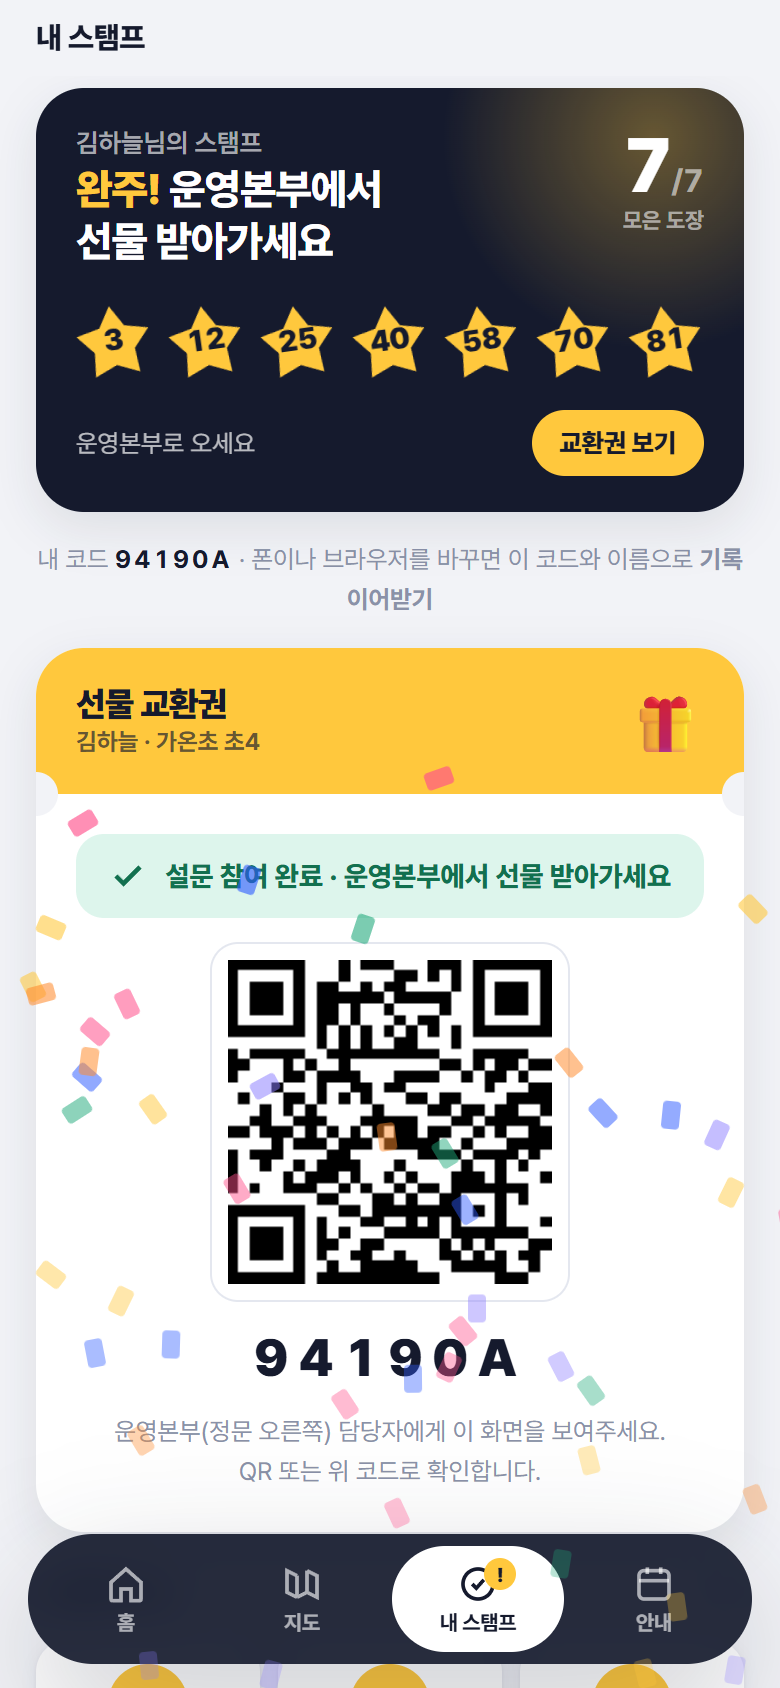
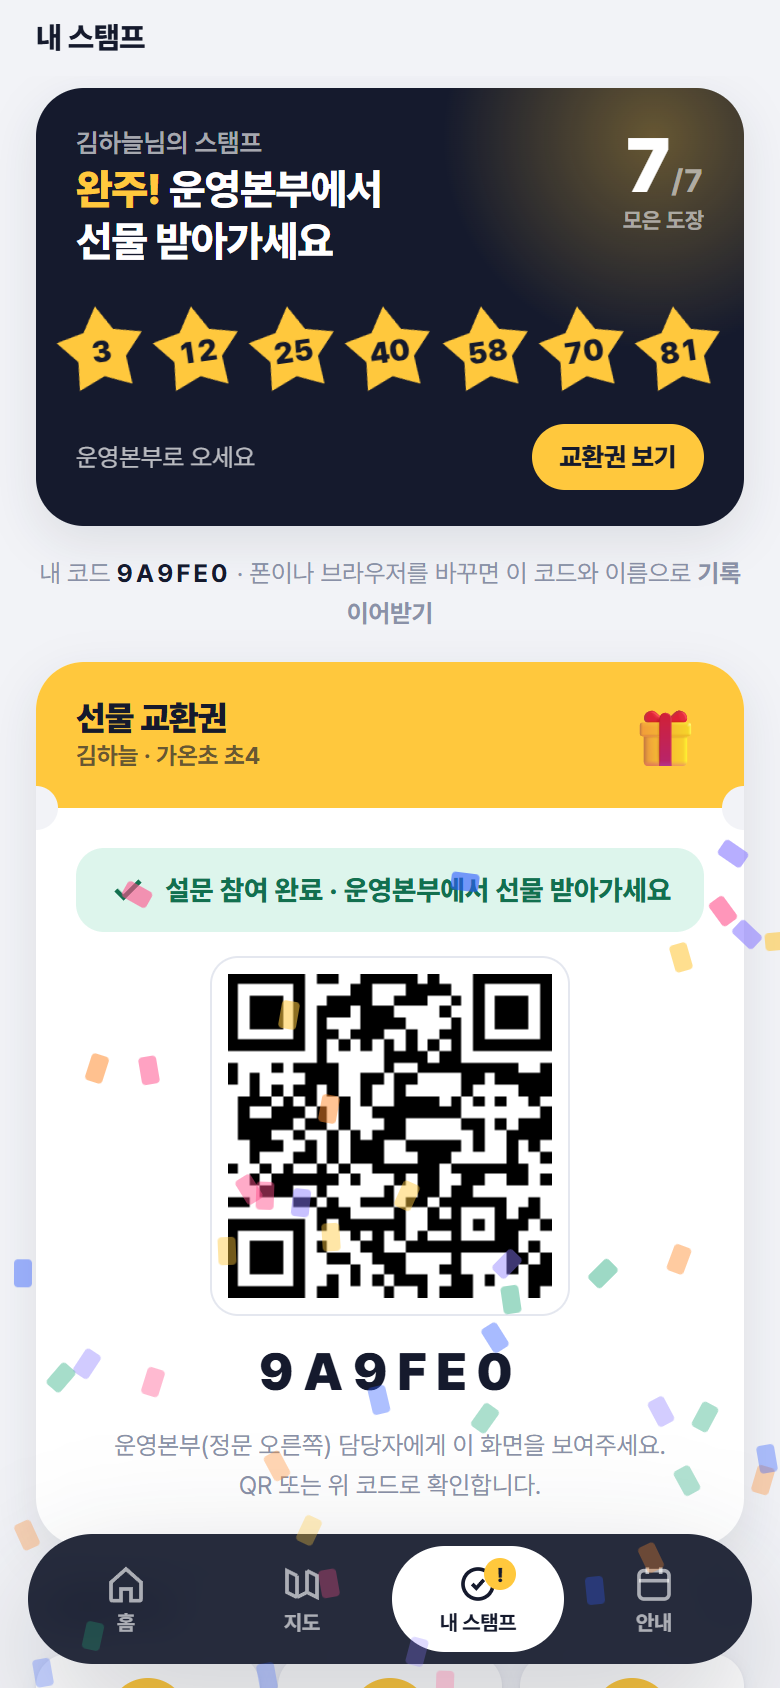
도장 별 키움·큰 도장도 별 · 전환 후 QR 도장 있음/없음
- 도장 칸: 간격 3px·카드 여백까지 써서 별 키움, 숫자 정가운데, 별 폴리곤 :root 공용
- 도장 화면 큰 도장(.bigstamp)도 별(::before 별 + drop-shadow)
- 시간대 전환 variant.stamp(''/yes/no): 전환 후 QR 도장 있음/없음, hasStamp 가 QR 제외 목록보다 먼저 봄
- QR 시트는 qrNeeded(): 카드 도장 부스 또는 전환 후 도장 있음 부스

diff --git a/원주축전_스탬프앱_3.html b/원주축전_스탬프앱_3.html
@@ -10,6 +10,7 @@
 <!-- qrcode.min.js · jsQR.js 는 필요할 때 loadLib() 로 받음: jsdelivr CDN 우선(Vercel 요청 수 절약), 3초 안에 안 오거나 실패하면 같은 서버 파일(?v= 는 배포 시각, 1년 immutable 캐시) -->   <!-- 같은 폴더의 파일 먼저, 없으면 CDN -->
 <style>
 :root{
+  --star:polygon(50% 0%,66.5% 27.4%,97.6% 34.5%,76.6% 58.7%,79.4% 90.5%,50% 78%,20.6% 90.5%,23.4% 58.7%,2.4% 34.5%,33.5% 27.4%);   /* 뚱뚱한 별(안쪽 반지름 0.56). 도장 칸·큰 도장 공용 */
   --bg:#F2F3F7; --card:#FFFFFF; --card-2:#F7F8FB;
   --ink:#151A2D; --ink-2:#4B5370; --ink-3:#8A91A8; --line:#E4E7EF; --line-2:#EEF0F5;
   --blue:#2D5BFF; --blue-ink:#1E45D6; --blue-soft:#E6ECFF;
@@ -121,10 +122,10 @@ select.inp.sm{padding-right:30px;background-position:right 10px center}
 .sc-count .n{font-size:38px;font-weight:900;letter-spacing:-.04em;line-height:1}
 .sc-count .n small{font-size:16px;color:rgba(255,255,255,.55);font-weight:700;letter-spacing:0}
 .sc-count .l{font-size:11px;color:rgba(255,255,255,.55);font-weight:700;margin-top:2px}
-.slots{display:grid;grid-template-columns:repeat(var(--cols,7),1fr);gap:8px;margin-top:18px;justify-items:center}
+.slots{display:grid;grid-template-columns:repeat(var(--cols,7),1fr);gap:3px;margin:18px -10px 0;justify-items:center}   /* 좌우 -10px 로 카드 여백까지 써서 별을 키움(별 꼭짓점 사이 여백이 커서 3px 간격이면 충분) */
 /* 도장 칸 = 뚱뚱한 별(clip-path). 빈 칸: 흐린 별 테두리(::before 가 안쪽을 카드색으로 덮음) · 찍힘: 노란 별 · 마지막 칸: 노란 테두리 별 + 🎁 */
-.slot{--star:polygon(50% 0%,66.5% 27.4%,97.6% 34.5%,76.6% 58.7%,79.4% 90.5%,50% 78%,20.6% 90.5%,23.4% 58.7%,2.4% 34.5%,33.5% 27.4%);width:100%;aspect-ratio:1;max-width:70px;clip-path:var(--star);background:rgba(255,255,255,.32);display:grid;place-items:center;position:relative;isolation:isolate;box-sizing:border-box;padding-bottom:9%;font-size:12px;font-weight:800;color:rgba(255,255,255,.4)}
-.slot::before{content:"";position:absolute;inset:0;background:var(--ink);clip-path:var(--star);transform:scale(.8);transform-origin:50% 46%;z-index:-1}
+.slot{width:100%;aspect-ratio:1;max-width:80px;clip-path:var(--star);background:rgba(255,255,255,.32);display:grid;place-items:center;position:relative;isolation:isolate;box-sizing:border-box;font-size:12px;font-weight:800;color:rgba(255,255,255,.4)}   /* 숫자는 별 안쪽 오각형 중심 = 정가운데 */
+.slot::before{content:"";position:absolute;inset:0;background:var(--ink);clip-path:var(--star);transform:scale(.8);transform-origin:50% 50%;z-index:-1}
 .slot.ink{background:var(--sun);color:var(--ink);transform:rotate(-8deg);animation:stampIn .5s cubic-bezier(.2,1.6,.4,1) both}
 .slot.ink::before{display:none}
 .slot.ink .num{font-size:15px;font-weight:900;letter-spacing:-.02em}
@@ -171,7 +172,8 @@ select.inp.sm{padding-right:30px;background-position:right 10px center}
 /* 관리자 시간 시트: 라벨 74px + 입력 한 줄, 시각 칸은 가운데 정렬 숫자 */
 .tsheet .tf{display:flex;align-items:flex-start;gap:8px;margin-top:8px}.tsheet .tf .tlb{flex:0 0 74px;font-size:13px;font-weight:700;color:var(--ink-2);padding-top:9px;line-height:1.3}
 .tsheet .tf>.inp,.tsheet .tf>.grow,.tsheet .tf>.row{flex:1;min-width:0}.tsheet .tmr{gap:6px;align-items:center}.tsheet .tmi{width:0;flex:1;text-align:center;font-variant-numeric:tabular-nums;letter-spacing:.04em}
-.tsheet .tsub{font-size:13px;font-weight:800;margin-top:14px;padding-top:10px;border-top:1px solid var(--line-2)}.inp.bad{border-color:var(--coral)}.tmi.act{border-color:var(--blue);box-shadow:0 0 0 3px rgba(43,96,255,.12)}
+.tsheet .tsub{font-size:13px;font-weight:800;margin-top:14px;padding-top:10px;border-top:1px solid var(--line-2)}
+.tseg{display:flex;gap:4px;padding:3px;border:1px solid var(--line);border-radius:10px;background:#F6F7FB}.tseg button{flex:1;border:0;background:none;border-radius:8px;padding:7px 0;font-size:12.5px;font-weight:700;color:var(--ink-2)}.tseg button.on{background:#fff;color:var(--ink);box-shadow:0 1px 3px rgba(0,0,0,.1)}.inp.bad{border-color:var(--coral)}.tmi.act{border-color:var(--blue);box-shadow:0 0 0 3px rgba(43,96,255,.12)}
 /* 시각 칸을 누르면 그 줄 아래 뜨는 시·분 칩. 한 줄에 다 들어가게 flex:1 */
 .tmpick{margin:6px 0 2px;padding:8px;border:1px solid var(--line);border-radius:12px;background:#F6F7FB}.tmpick .tmrow{display:flex;gap:4px;align-items:center}.tmpick .tmrow+.tmrow{margin-top:6px}
 .tmpick .tmlab{font-size:11px;font-weight:800;color:var(--ink-3);flex:0 0 14px}.tmpick .tmc{flex:1;min-width:0;border:1px solid var(--line);background:#fff;border-radius:8px;padding:7px 0;font-size:12px;font-weight:700;color:var(--ink-2);font-variant-numeric:tabular-nums}.tmpick .tmc.on{background:var(--blue);border-color:var(--blue);color:#fff}
@@ -259,12 +261,12 @@ select.inp.sm{padding-right:30px;background-position:right 10px center}
 
 /* ---------- stamp screen ---------- */
 .stampscreen{display:flex;flex-direction:column;align-items:center;text-align:center;gap:16px;padding-top:18px}
-.bigstamp{width:190px;height:190px;border-radius:50%;background:var(--sun);display:grid;place-items:center;position:relative;box-shadow:0 20px 50px rgba(255,200,61,.45);transform:rotate(-8deg);animation:stampIn .7s cubic-bezier(.2,1.5,.4,1) both}
-.bigstamp::after{content:"";position:absolute;inset:10px;border:2.5px dashed rgba(21,26,45,.4);border-radius:50%}
+.bigstamp{width:230px;height:230px;display:grid;place-items:center;position:relative;isolation:isolate;filter:drop-shadow(0 18px 30px rgba(255,200,61,.45));transform:rotate(-8deg);animation:stampIn .7s cubic-bezier(.2,1.5,.4,1) both}
+.bigstamp::before{content:"";position:absolute;inset:0;background:var(--sun);clip-path:var(--star);z-index:-1}
 .bigstamp .n{font-size:64px;font-weight:900;letter-spacing:-.05em;color:var(--ink);line-height:1}
 .bigstamp .t{font-size:12px;font-weight:800;color:rgba(21,26,45,.7);margin-top:-2px;letter-spacing:.02em}
-.bigstamp.dup{background:var(--card-2);box-shadow:none;transform:none;animation:none}
-.bigstamp.dup::after{border-color:var(--line)}
+.bigstamp.dup{filter:none;transform:none;animation:none}
+.bigstamp.dup::before{background:var(--card-2)}
 .bigstamp.dup .n,.bigstamp.dup .t{color:var(--ink-3)}
 .stamp-h{font-size:24px;font-weight:800;letter-spacing:-.02em;line-height:1.25}
 .stamp-p{font-size:14.5px;color:var(--ink-2);line-height:1.6}
@@ -884,13 +886,13 @@ const S = {
   settingsRaw: null,   // 서버 settings.data 원본 (관리자 저장 시 병합용)
 };
 /* 시간대 전환 부스: variant {at,name,org,cat,desc,hours,media} 가 있고 지금 시각이 at 이후면 바뀐 내용으로 보여줌(번호·id·QR·도장은 그대로). 원래 이름은 baseName 에.
-   media {video,pdf,img} 가 있으면 바뀐 후엔 그 자료만 보임(카드 자료와 안 섞임), 없으면 카드 자료 그대로. hours 비우면 종일(바뀐 후엔 카드 운영 시간을 안 따라감 — 오전 09~12 본부가 오후에 '운영 끝남'으로 보이던 문제) */
+   media {video,pdf,img} 가 있으면 바뀐 후엔 그 자료만 보임(카드 자료와 안 섞임), 없으면 카드 자료 그대로. hours 비우면 종일(바뀐 후엔 카드 운영 시간을 안 따라감 — 오전 09~12 본부가 오후에 '운영 끝남'으로 보이던 문제). stamp ''(카드 그대로)·'yes'·'no' 는 hasStamp() 가 QR 제외 목록보다 먼저 봄 */
 function nowMin(){ const d = new Date(); return d.getHours() * 60 + d.getMinutes(); }
 function toMin(t){ const m = String(t || '').match(/(\d{1,2}):(\d{2})/); return m ? +m[1] * 60 + +m[2] : null; }
 /* 일정 시간: '09:00' 또는 '09:00~10:00'(~ - – 모두 됨). 범위면 {start, end} 둘 다, 아니면 end 없음 */
 function schedRange(t){ const m = String(t || '').match(/(\d{1,2}:\d{2})\s*[~\-–]\s*(\d{1,2}:\d{2})/); return m ? { start: m[1], end: m[2] } : { start: String(t || '').trim(), end: '' }; }
 function schedTimeHTML(t){ const r = schedRange(t); return r.end ? `${esc(r.start)}<small>~${esc(r.end)}</small>` : esc(r.start); }
-function bv(b){ const v = b && b.variant; if(!v || toMin(v.at) === null || nowMin() < toMin(v.at)) return b; const m = v.media; return { ...b, name: v.name || b.name, org: v.org || b.org, cat: v.cat || b.cat, desc: v.desc || b.desc, hours: v.hours || '', ...(m ? { video: m.video || '', pdf: m.pdf || '', img: m.img || '' } : {}), switched: true, baseName: b.name }; }
+function bv(b){ const v = b && b.variant; if(!v || toMin(v.at) === null || nowMin() < toMin(v.at)) return b; const m = v.media; return { ...b, name: v.name || b.name, org: v.org || b.org, cat: v.cat || b.cat, desc: v.desc || b.desc, hours: v.hours || '', stamp: v.stamp || '', ...(m ? { video: m.video || '', pdf: m.pdf || '', img: m.img || '' } : {}), switched: true, baseName: b.name }; }
 /* 부스 대상: '' 전체 · elem 초등 이하 · secondary 중고등. 등록 구분(초/중/고/성인)으로 판정 — 성인·미등록은 전부 보임 */
 const TARGETS = [{ id: '', name: '전체' }, { id: 'elem', name: '초등 이하' }, { id: 'secondary', name: '중고등' }];
 function targetName(t){ return (TARGETS.find(x => x.id === (t || '')) || TARGETS[0]).name; }
@@ -2114,7 +2116,7 @@ function admBooths(){
           <select class="inp sm f-zone" data-f="zone" title="구역">${ZONES.map(z => `<option value="${z.id}" ${z.id === (b.zone || '') ? 'selected' : ''}>${z.name}</option>`).join('')}</select>
           <input type="hidden" data-f="target" value="${esc(b.target || '')}"><div class="tsel" data-tsel="${i}" title="대상: 초등 이하로 두면 중고등학생 폰에는 안 보이고 도장도 안 찍혀요">${TARGETS.map(t => `<button type="button" class="${(b.target || '') === t.id ? 'on' : ''}" data-t="${t.id}">${t.name}</button>`).join('')}</div>
           <input type="hidden" data-f="hours" value="${esc(b.hours || '')}"><input type="hidden" data-f="variant" value="${esc(b.variant ? JSON.stringify(b.variant) : '')}">
-          <span class="mchip ${b.hours ? 'on' : ''}" data-m="hours">🕒 ${esc(b.hours || '종일')}</span><span class="mchip ${b.variant ? 'on' : ''}" data-m="variant">🔁 ${b.variant ? esc(b.variant.at) + ' 전환' + (b.variant.media ? ' · 자료 별도' : '') : '전환 없음'}</span><button class="btn xs soft" data-time="${i}" style="white-space:nowrap" title="운영 시간 · 시간대 전환">시간</button>
+          <span class="mchip ${b.hours ? 'on' : ''}" data-m="hours">🕒 ${esc(b.hours || '종일')}</span><span class="mchip ${b.variant ? 'on' : ''}" data-m="variant">🔁 ${b.variant ? esc(b.variant.at) + ' 전환' + (b.variant.media ? ' · 자료 별도' : '') + (b.variant.stamp === 'yes' ? ' · 도장 있음' : b.variant.stamp === 'no' ? ' · 도장 없음' : '') : '전환 없음'}</span><button class="btn xs soft" data-time="${i}" style="white-space:nowrap" title="운영 시간 · 시간대 전환">시간</button>
           <input class="inp sm f-desc" value="${esc(b.desc || '')}" data-f="desc" placeholder="소개 (방문객 부스 소개 화면에 나와요)"></div></div>`).join('')}
     </div>
     <div class="row no-print"><button class="btn blue" id="bSave">변경사항 저장</button><span class="small muted">저장 전엔 지도에 반영되지 않아요</span></div>`);
@@ -2228,6 +2230,8 @@ function admBooths(){
           ${field('소개', `<input class="inp sm" id="tDesc" value="${esc((v && v.desc) || '')}" placeholder="그대로">`)}
           ${field('운영 시간', `<div class="row tmr">${tm('tVStart', vh[1], '--:--')}<span>~</span>${tm('tVEnd', vh[2], '--:--')}<button class="btn xs soft" id="tVClear">종일</button></div>`)}
           <p class="small muted" style="margin:4px 0 0 82px;line-height:1.5">비우면 종일 — 바뀐 후엔 위 운영 시간을 따라가지 않아요.</p>
+          ${field('QR 도장', `<div class="tseg" id="tStamp">${[['', '카드 그대로'], ['yes', '도장 있음'], ['no', '도장 없음']].map(([k, t]) => `<button type="button" class="${((v && v.stamp) || '') === k ? 'on' : ''}" data-k="${k}">${t}</button>`).join('')}</div>`)}
+          <p class="small muted" style="margin:4px 0 0 82px;line-height:1.5">예: 오전 본부(QR 제외)가 오후 체험 부스가 되면 '도장 있음'. QR 시트엔 하루 중 한 번이라도 도장 주는 부스가 다 나와요.</p>
           <div class="tsub"><label style="cursor:pointer;display:inline-flex;gap:8px;align-items:center"><input type="checkbox" id="tMed" ${vm ? 'checked' : ''}>바뀐 후 자료 따로</label> <span class="small muted" style="font-weight:600">체크 안 하면 카드 [자료] 그대로</span></div>
           <div id="tMedBox" ${vm ? '' : 'hidden'}>
             ${field('유튜브', `<input class="inp sm" id="tVideo" value="${esc((vm && vm.video) || '')}" placeholder="주소 (없으면 비움)">`)}
@@ -2258,6 +2262,7 @@ function admBooths(){
     $('#tMed').onchange = () => { $('#tMedBox').hidden = !$('#tMed').checked; };
     $('#tClear').onclick = () => { $('#tStart').value = ''; $('#tEnd').value = ''; };
     $('#tVClear').onclick = () => { $('#tVStart').value = ''; $('#tVEnd').value = ''; };
+    $('#tStamp').onclick = e => { const bt = e.target.closest('button'); if(!bt) return; $$('#tStamp button').forEach(x => x.classList.toggle('on', x === bt)); };
     const tpv = () => {
       const p = $('#tPdf').value.trim(); $('#tPdfClear').hidden = !p; $('#tPdfName').textContent = p ? fname(p) : '아직 없어요';
       const im = $('#tImg').value.trim(); $('#tImgClear').hidden = !im;
@@ -2278,12 +2283,13 @@ function admBooths(){
         if(vs && ve && vs >= ve) return toast('바뀐 후 운영 시간의 끝이 시작보다 늦어야 해요');
         const catTxt = $('#tCat').value.trim(); nv = { at, name, org: $('#tOrg').value.trim(), cat: catTxt ? matchCategory(catTxt, '', true) : '', desc: $('#tDesc').value.trim() };
         if(vs) nv.hours = `${vs}~${ve}`;
+        const stk = ($('#tStamp .on') || {}).dataset?.k || ''; if(stk) nv.stamp = stk;
         if($('#tMed').checked) nv.media = { video: $('#tVideo').value.trim(), pdf: $('#tPdf').value.trim(), img: $('#tImg').value.trim() };
       }
       const hours = st ? `${st}~${en}` : '';
       $('[data-f=hours]', tr).value = hours; $('[data-f=variant]', tr).value = nv ? JSON.stringify(nv) : '';
       $('[data-m=hours]', tr).textContent = '🕒 ' + (hours || '종일'); $('[data-m=hours]', tr).classList.toggle('on', !!hours);
-      $('[data-m=variant]', tr).textContent = '🔁 ' + (nv ? nv.at + ' 전환' + (nv.media ? ' · 자료 별도' : '') : '전환 없음'); $('[data-m=variant]', tr).classList.toggle('on', !!nv);
+      $('[data-m=variant]', tr).textContent = '🔁 ' + (nv ? nv.at + ' 전환' + (nv.media ? ' · 자료 별도' : '') + (nv.stamp === 'yes' ? ' · 도장 있음' : nv.stamp === 'no' ? ' · 도장 없음' : '') : '전환 없음'); $('[data-m=variant]', tr).classList.toggle('on', !!nv);
       closeSheet(); toast('표에 넣었어요 · 아래 저장을 눌러야 반영돼요');
     };
   };
@@ -2404,7 +2410,9 @@ async function saveFacilities(list){
 function closedSet(){ return new Set((S.settingsRaw && S.settingsRaw.closedBooths) || []); }
 /* 도장 없는 부스(QR 안 하는 체험·안내 부스): settings.noStampBooths(id 목록). QR 인쇄에서 빠지고, 방문객에겐 '도장 없음' 표시·도장 화면에서 막음 */
 function noStampSet(){ return new Set((S.settingsRaw && S.settingsRaw.noStampBooths) || []); }
-function hasStamp(b){ return !!b && !noStampSet().has(b.id); }
+function hasStamp(b){ if(!b) return false; if(b.stamp === 'yes') return true; if(b.stamp === 'no') return false; return !noStampSet().has(b.id); }
+/* QR 인쇄 대상: 카드가 도장 부스거나, 전환 후에 도장 있음으로 바뀌는 부스(오전 본부 → 오후 체험 부스). 원본 S.booths(전환 안 거친 것) 기준 */
+function qrNeeded(b){ return hasStamp(b) || !!(b.variant && b.variant.stamp === 'yes'); }
 function boothOpen(b){ if(!b) return true; if(closedSet().has(b.id)) return false; const h = hoursState(b); return !(h && (h.state === 'before' || h.state === 'after')); }
 /* QR 인쇄 시트. 부스별 QR 주소 = base?b=번호&t=토큰. 토큰은 DB.boothTokens (부스가 서버에 없으면 먼저 저장해 발급). 같은 탭의 테스트 번호 입력도 통과되게 qrTok 에 넣음 */
 function admQR(){
@@ -2415,7 +2423,7 @@ function admQR(){
       <button class="btn sm" onclick="print()">인쇄</button></div>
     <div class="qrgrid">
       <div class="qrc entry" style="--c:var(--blue)"><div class="qr" id="qr-entry"></div><div class="qrtxt"><div class="qrpill"><span class="dot"></span>입장 · 안내판용</div><div class="n entry">START</div><div class="t">QR을 찍고 등록하면<br>스탬프 랠리 시작!</div><div class="u">${esc(base)}?join</div><div class="qrhow">📱 휴대폰 카메라로 QR을 찍어주세요</div><div class="qrbrand">${esc(CONFIG.eventTitle)}</div></div></div>
-      ${S.booths.filter(hasStamp).map(b => { const c = catOf(b.cat); return `<div class="qrc" style="--c:${c.color}"><div class="qr" id="qr-${b.id}"></div><div class="qrtxt"><div class="qrpill"><span class="dot"></span>${esc(c.name)}</div><div class="n"><small>BOOTH</small>${esc(b.n)}</div><div class="t">${esc(b.name)}</div><div class="u">${esc(b.org)}</div><div class="qrhow">📱 QR을 찍으면 도장이 <b>쾅!</b> ${CONFIG.stampGoal}개 모으면 선물</div><div class="qrbrand">${esc(CONFIG.eventTitle)}</div></div></div>`; }).join('')}</div>`);
+      ${S.booths.filter(qrNeeded).map(b => { const c = catOf(b.cat); return `<div class="qrc" style="--c:${c.color}"><div class="qr" id="qr-${b.id}"></div><div class="qrtxt"><div class="qrpill"><span class="dot"></span>${esc(c.name)}</div><div class="n"><small>BOOTH</small>${esc(b.n)}</div><div class="t">${esc(b.name)}</div><div class="u">${esc(b.org)}</div><div class="qrhow">📱 QR을 찍으면 도장이 <b>쾅!</b> ${CONFIG.stampGoal}개 모으면 선물</div><div class="qrbrand">${esc(CONFIG.eventTitle)}</div></div></div>`; }).join('')}</div>`);
   (async () => {
     let toks = {};
     if(DB === SupabaseDB){   // 서버 토큰. 부스가 아직 서버에 없으면(내장 시드 상태) 먼저 저장해서 발급받음
@@ -2428,7 +2436,7 @@ function admQR(){
     }
     try{ await loadQRCode(); }catch(e){ $('#qrStatus').innerHTML = `<span style="color:var(--coral)">QR 라이브러리를 못 불러왔어요 (${esc(e.message)})</span>`; return; }
     new QRCode($('#qr-entry'), { text: `${base}?join`, width: 256, height: 256, correctLevel: QRCode.CorrectLevel.M });
-    S.booths.filter(hasStamp).forEach(b => new QRCode($('#qr-' + b.id), { text: `${base}?b=${encodeURIComponent(b.n)}${toks[b.id] ? '&t=' + toks[b.id] : ''}`, width: 256, height: 256, correctLevel: QRCode.CorrectLevel.M }));
+    S.booths.filter(qrNeeded).forEach(b => new QRCode($('#qr-' + b.id), { text: `${base}?b=${encodeURIComponent(b.n)}${toks[b.id] ? '&t=' + toks[b.id] : ''}`, width: 256, height: 256, correctLevel: QRCode.CorrectLevel.M }));
   })();
 }
 /* 행사 설정 폼. 저장 → DB.saveSettings → applySettings 로 즉시 반영. 일정·자료는 '한 줄에 하나, | 로 구분' 텍스트를 파싱 */

diff --git a/기능정리.md b/기능정리.md
@@ -124,7 +124,7 @@ DB 컬럼은 2026-09-14에 풀네임으로 바꿈(SQL이 옛 컬럼을 감지해
 
 - **운영 시간**(2026-09-21, DB `operating_hours`, 앱 `hours`): 오전엔 운영본부로 쓰다 오후에 부스가 되는 자리처럼 시간이 정해진 부스용. 관리자 › 부스 카드 2줄의 '운영 시간' 칸에 `13:00~16:00` 처럼 적으면(비우면 종일) 방문객 부스 목록·소개에 🕒 로 표시되고, 폰 시각 기준으로 '13:00부터 운영 / 운영 중 / 운영 끝남' 이 붙는다(`hoursState`). 도장은 막지 않음. 입력은 카드 2줄 [시간] 버튼 → 시트에서 시간 선택기(시작~끝)로. SQL 13절 필요.
 - **시간대 전환**(2026-09-21, DB `time_variant` jsonb, 앱 `variant` {at,name,org,cat,desc}): 같은 [시간] 시트의 '시간이 되면 다른 부스로 바뀌어요' 체크 → 바뀌는 시각 + 바뀐 후 부스명(필수)·기관·분류·소개(비우면 그대로). 방문객 쪽은 `boothById`·`boothByN`·`filteredBooths` 가 `bv()` 를 거쳐 그 시각부터 바뀐 내용으로 보이고(목록 🔁 칩, 소개 '시간대' 줄), 번호·QR·도장은 하나. 관리자 카드는 항상 원래 내용. 엑셀엔 없음(불러오기 때 같은 번호의 기존 전환 값 유지). SQL 14절 필요.
-  - 2026-10-07 확장: variant 에 `hours`(바뀐 후 운영 시간, **비우면 종일** — 카드 운영 시간을 따라가면 오전 본부 09~12 가 오후에 '운영 끝남'이 되므로. 시트에 [종일] 버튼, 바뀌는 시각 기본 12:00, 시각 칸 placeholder 는 --:--)·`media` {video,pdf,img}(바뀐 후 자료, 시트의 '바뀐 후 자료 따로' 체크 → 전환 후엔 이 자료만 보이고 카드 자료는 안 섞임. 체크 안 하면 카드 자료 그대로) 추가. `bv()` 가 둘 다 적용. 관리자 칩에 '· 자료 별도'. 업로드 경로는 `{부스id}/vimg-…`·`vpdf-…`. DB 는 같은 jsonb 라 SQL 변경 없음.
+  - 2026-10-07 확장: variant 에 `hours`(바뀐 후 운영 시간, **비우면 종일** — 카드 운영 시간을 따라가면 오전 본부 09~12 가 오후에 '운영 끝남'이 되므로. 시트에 [종일] 버튼, 바뀌는 시각 기본 12:00, 시각 칸 placeholder 는 --:--)·`stamp`(''/yes/no — 전환 후 QR 도장 있음/없음, `hasStamp()` 가 QR 제외 목록보다 먼저 봄. QR 시트는 `qrNeeded()` = 카드 도장 부스 또는 전환 후 '도장 있음' 부스. 대시보드 히트맵의 도장 없음 제외는 settings 목록만 봄)·`media` {video,pdf,img}(바뀐 후 자료, 시트의 '바뀐 후 자료 따로' 체크 → 전환 후엔 이 자료만 보이고 카드 자료는 안 섞임. 체크 안 하면 카드 자료 그대로) 추가. `bv()` 가 둘 다 적용. 관리자 칩에 '· 자료 별도'. 업로드 경로는 `{부스id}/vimg-…`·`vpdf-…`. DB 는 같은 jsonb 라 SQL 변경 없음.
   - [시간] 시트 입력은 브라우저 time 선택기(오전/오후 표기) 대신 **24시간 HH:MM 글자 입력**(`.tmi`, 숫자만 치면 1300 → 13:00, 잘못된 값 빨간 테두리·확인 때 토스트). 라벨 74px + 입력 한 줄 배치(`.tsheet .tf`). 칸을 누르면 그 줄 아래에 시(09~17)·분(00~50) 칩(`.tmpick`)이 떠서 탭으로도 고름(글자 입력과 병행, 칩은 pointerdown 막아 포커스 유지, 다른 데 누르면 숨김).
 분류·구역은 위 표의 한글 이름으로. 모르는 값이면 분류는 상상그이상, 구역은 트랙 둘레로 들어감.
 
